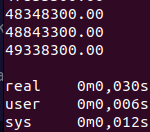
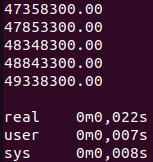
graficos add e readme atualizado

diff --git a/Lab02b/README.md b/Lab02b/README.md
@@ -116,11 +116,12 @@ Abaixo segue os prints dos tempos de execução dos códigos serial e pararelo, 
 #### Gráfico Speedup
 
 
+![alt](/Lab02b/assets/tab1.png)
 ![alt](/Lab02b/assets/graf2.png)
 
 3. Como você acha que poderia melhorar o seu algoritmo para obter maior benefício com o paralelismo? Para provar seu ponto, refaça a solução com essa abordagem e construa um novo gráfico de speedup para 1, 2, 4, 6 e 8 processadores.
 
-Para melhorar o algoritimo usamos 
+Para melhorar o algoritimo retiramos os prints das matrizes e deixamos apenas mostrar o tempo que levou para a execução, além disso modificamos o código para dividir as linhas da matriz entre as threads de maneira mais equilibrada, se o número de linhas não é um múltiplo do número de threads, as primeiras remainder threads (threads restantes) recebem uma linha extra. Isso garante que todas as threads tenham aproximadamente a mesma quantidade de trabalho a fazer, otimizando o paralelismo.
 
 #### Tempo versão paralela melhorada
 
@@ -146,4 +147,5 @@ Para melhorar o algoritimo usamos
 
 #### Gráfico Speedup
 
+![alt](/Lab02b/assets/tab2.png)
 ![alt](/Lab02b/assets/graf3.png)
